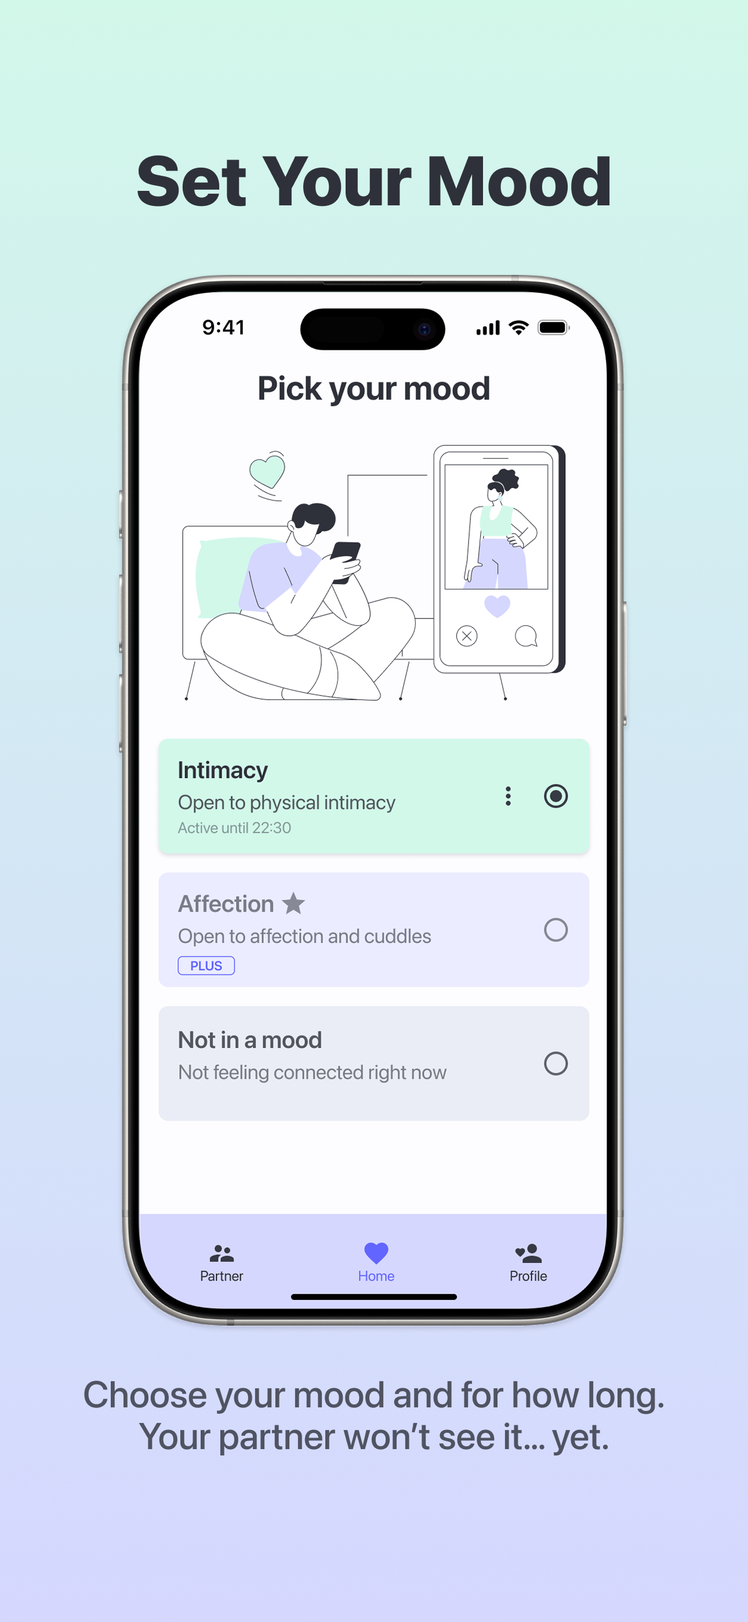
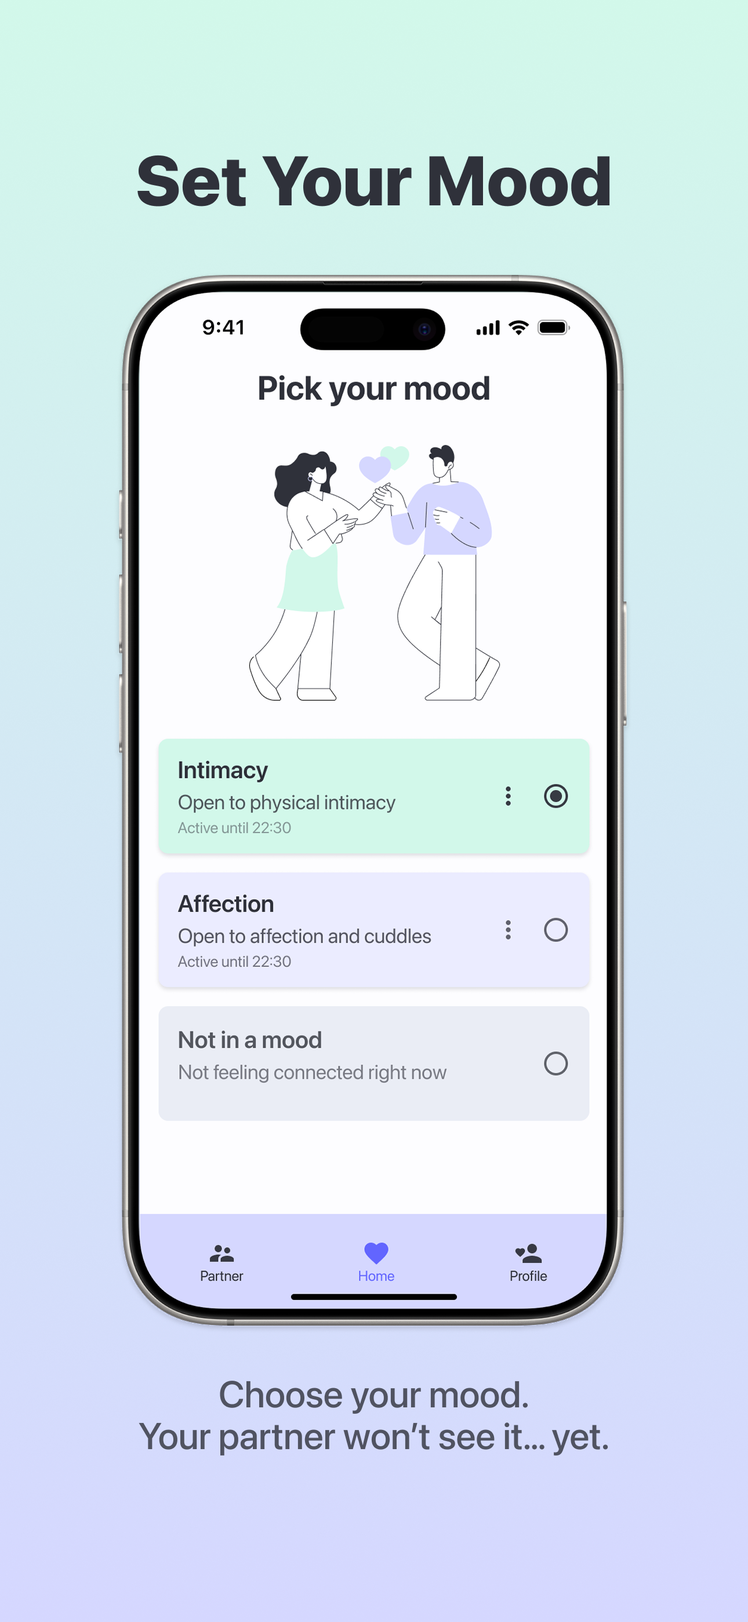
screenshots, app link

Changed region(s): [[0.2481, 0.2489, 0.7752, 0.4356], [0.093, 0.8401, 0.8992, 0.8712], [0.2481, 0.529, 0.4031, 0.6223]]

diff --git a/index.html b/index.html
@@ -1,2 +1,2 @@
 <!doctype html><html lang="en"><head><meta charset="utf-8"><meta http-equiv="X-UA-Compatible" content="IE=edge"><meta name="viewport" content="width=device-width, initial-scale=1.0, maximum-scale=1.0, user-scalable=no"/><meta name="description" content="In The Mood mobile application"><meta name="theme-color" content="#efeeff"><meta name="msapplication-navbutton-color" content="#efeeff"><meta name="apple-mobile-web-app-status-bar-style" content="#efeeff"><meta property="og:image" content="https://inthemood.kilkalabs.com/assets/images/large-logo.png"/><link rel="alternate" type="application/rss+xml" title="In The Mood" href="/feed.xml"><link href="https://fonts.googleapis.com/css?family=Heebo:900" rel="stylesheet"><title>In The Mood | In The Mood mobile application</title><meta name="generator" content="Jekyll v4.4.1"/><meta property="og:title" content="In The Mood"/><meta name="author" content="KilkaLabs"/><meta property="og:locale" content="en_US"/><meta name="description" content="In The Mood mobile application"/><meta property="og:description" content="In The Mood mobile application"/><link rel="canonical" href="https://inthemood.kilkalabs.com/"/><meta property="og:url" content="https://inthemood.kilkalabs.com/"/><meta property="og:site_name" content="In The Mood"/><meta property="og:type" content="website"/><meta name="twitter:card" content="summary"/><meta property="twitter:title" content="In The Mood"/> <script type="application/ld+json">
-{"@context":"https://schema.org","@type":"WebSite","author":{"@type":"Person","name":"KilkaLabs"},"description":"In The Mood mobile application","headline":"In The Mood","name":"In The Mood","publisher":{"@type":"Organization","logo":{"@type":"ImageObject","url":"https://inthemood.kilkalabs.com/assets/images/large-logo.png"},"name":"KilkaLabs"},"url":"https://inthemood.kilkalabs.com/"}</script><script async src="https://www.googletagmanager.com/gtag/js?id=G-GJNZ7KK26C"></script><script>function gtag(){dataLayer.push(arguments)}window.dataLayer=window.dataLayer||[],gtag("js",new Date),gtag("config","G-GJNZ7KK26C")</script><link rel="icon" type="image/x-icon" href="/assets/assets/favicon.ico"><link rel="icon" type="image/png" sizes="16x16" href="/assets/assets/favicon-16x16.png"><link rel="icon" type="image/png" sizes="32x32" href="/assets/assets/favicon-32x32.png"><link rel="icon" type="image/png" sizes="48x48" href="/assets/assets/favicon-48x48.png"><link rel="manifest" href="/assets/assets/manifest.webmanifest"><meta name="mobile-web-app-capable" content="yes"><meta name="theme-color" content="#fff"><meta name="application-name" content="mobile-app-landingpage-template"><link rel="apple-touch-icon" sizes="57x57" href="/assets/assets/apple-touch-icon-57x57.png"><link rel="apple-touch-icon" sizes="60x60" href="/assets/assets/apple-touch-icon-60x60.png"><link rel="apple-touch-icon" sizes="72x72" href="/assets/assets/apple-touch-icon-72x72.png"><link rel="apple-touch-icon" sizes="76x76" href="/assets/assets/apple-touch-icon-76x76.png"><link rel="apple-touch-icon" sizes="114x114" href="/assets/assets/apple-touch-icon-114x114.png"><link rel="apple-touch-icon" sizes="120x120" href="/assets/assets/apple-touch-icon-120x120.png"><link rel="apple-touch-icon" sizes="144x144" href="/assets/assets/apple-touch-icon-144x144.png"><link rel="apple-touch-icon" sizes="152x152" href="/assets/assets/apple-touch-icon-152x152.png"><link rel="apple-touch-icon" sizes="167x167" href="/assets/assets/apple-touch-icon-167x167.png"><link rel="apple-touch-icon" sizes="180x180" href="/assets/assets/apple-touch-icon-180x180.png"><link rel="apple-touch-icon" sizes="1024x1024" href="/assets/assets/apple-touch-icon-1024x1024.png"><meta name="apple-mobile-web-app-capable" content="yes"><meta name="apple-mobile-web-app-status-bar-style" content="black-translucent"><meta name="apple-mobile-web-app-title" content="mobile-app-landingpage-template"><link rel="apple-touch-startup-image" media="(device-width: 320px) and (device-height: 568px) and (-webkit-device-pixel-ratio: 2) and (orientation: portrait)" href="/assets/assets/apple-touch-startup-image-640x1136.png"><link rel="apple-touch-startup-image" media="(device-width: 320px) and (device-height: 568px) and (-webkit-device-pixel-ratio: 2) and (orientation: landscape)" href="/assets/assets/apple-touch-startup-image-1136x640.png"><link rel="apple-touch-startup-image" media="(device-width: 375px) and (device-height: 667px) and (-webkit-device-pixel-ratio: 2) and (orientation: portrait)" href="/assets/assets/apple-touch-startup-image-750x1334.png"><link rel="apple-touch-startup-image" media="(device-width: 375px) and (device-height: 667px) and (-webkit-device-pixel-ratio: 2) and (orientation: landscape)" href="/assets/assets/apple-touch-startup-image-1334x750.png"><link rel="apple-touch-startup-image" media="(device-width: 375px) and (device-height: 812px) and (-webkit-device-pixel-ratio: 3) and (orientation: portrait)" href="/assets/assets/apple-touch-startup-image-1125x2436.png"><link rel="apple-touch-startup-image" media="(device-width: 375px) and (device-height: 812px) and (-webkit-device-pixel-ratio: 3) and (orientation: landscape)" href="/assets/assets/apple-touch-startup-image-2436x1125.png"><link rel="apple-touch-startup-image" media="(device-width: 390px) and (device-height: 844px) and (-webkit-device-pixel-ratio: 3) and (orientation: portrait)" href="/assets/assets/apple-touch-startup-image-1170x2532.png"><link rel="apple-touch-startup-image" media="(device-width: 390px) and (device-height: 844px) and (-webkit-device-pixel-ratio: 3) and (orientation: landscape)" href="/assets/assets/apple-touch-startup-image-2532x1170.png"><link rel="apple-touch-startup-image" media="(device-width: 393px) and (device-height: 852px) and (-webkit-device-pixel-ratio: 3) and (orientation: portrait)" href="/assets/assets/apple-touch-startup-image-1179x2556.png"><link rel="apple-touch-startup-image" media="(device-width: 393px) and (device-height: 852px) and (-webkit-device-pixel-ratio: 3) and (orientation: landscape)" href="/assets/assets/apple-touch-startup-image-2556x1179.png"><link rel="apple-touch-startup-image" media="(device-width: 414px) and (device-height: 896px) and (-webkit-device-pixel-ratio: 2) and (orientation: portrait)" href="/assets/assets/apple-touch-startup-image-828x1792.png"><link rel="apple-touch-startup-image" media="(device-width: 414px) and (device-height: 896px) and (-webkit-device-pixel-ratio: 2) and (orientation: landscape)" href="/assets/assets/apple-touch-startup-image-1792x828.png"><link rel="apple-touch-startup-image" media="(device-width: 414px) and (device-height: 896px) and (-webkit-device-pixel-ratio: 3) and (orientation: portrait)" href="/assets/assets/apple-touch-startup-image-1242x2688.png"><link rel="apple-touch-startup-image" media="(device-width: 414px) and (device-height: 896px) and (-webkit-device-pixel-ratio: 3) and (orientation: landscape)" href="/assets/assets/apple-touch-startup-image-2688x1242.png"><link rel="apple-touch-startup-image" media="(device-width: 414px) and (device-height: 736px) and (-webkit-device-pixel-ratio: 3) and (orientation: portrait)" href="/assets/assets/apple-touch-startup-image-1242x2208.png"><link rel="apple-touch-startup-image" media="(device-width: 414px) and (device-height: 736px) and (-webkit-device-pixel-ratio: 3) and (orientation: landscape)" href="/assets/assets/apple-touch-startup-image-2208x1242.png"><link rel="apple-touch-startup-image" media="(device-width: 428px) and (device-height: 926px) and (-webkit-device-pixel-ratio: 3) and (orientation: portrait)" href="/assets/assets/apple-touch-startup-image-1284x2778.png"><link rel="apple-touch-startup-image" media="(device-width: 428px) and (device-height: 926px) and (-webkit-device-pixel-ratio: 3) and (orientation: landscape)" href="/assets/assets/apple-touch-startup-image-2778x1284.png"><link rel="apple-touch-startup-image" media="(device-width: 430px) and (device-height: 932px) and (-webkit-device-pixel-ratio: 3) and (orientation: portrait)" href="/assets/assets/apple-touch-startup-image-1290x2796.png"><link rel="apple-touch-startup-image" media="(device-width: 430px) and (device-height: 932px) and (-webkit-device-pixel-ratio: 3) and (orientation: landscape)" href="/assets/assets/apple-touch-startup-image-2796x1290.png"><link rel="apple-touch-startup-image" media="(device-width: 744px) and (device-height: 1133px) and (-webkit-device-pixel-ratio: 2) and (orientation: portrait)" href="/assets/assets/apple-touch-startup-image-1488x2266.png"><link rel="apple-touch-startup-image" media="(device-width: 744px) and (device-height: 1133px) and (-webkit-device-pixel-ratio: 2) and (orientation: landscape)" href="/assets/assets/apple-touch-startup-image-2266x1488.png"><link rel="apple-touch-startup-image" media="(device-width: 768px) and (device-height: 1024px) and (-webkit-device-pixel-ratio: 2) and (orientation: portrait)" href="/assets/assets/apple-touch-startup-image-1536x2048.png"><link rel="apple-touch-startup-image" media="(device-width: 768px) and (device-height: 1024px) and (-webkit-device-pixel-ratio: 2) and (orientation: landscape)" href="/assets/assets/apple-touch-startup-image-2048x1536.png"><link rel="apple-touch-startup-image" media="(device-width: 810px) and (device-height: 1080px) and (-webkit-device-pixel-ratio: 2) and (orientation: portrait)" href="/assets/assets/apple-touch-startup-image-1620x2160.png"><link rel="apple-touch-startup-image" media="(device-width: 810px) and (device-height: 1080px) and (-webkit-device-pixel-ratio: 2) and (orientation: landscape)" href="/assets/assets/apple-touch-startup-image-2160x1620.png"><link rel="apple-touch-startup-image" media="(device-width: 820px) and (device-height: 1080px) and (-webkit-device-pixel-ratio: 2) and (orientation: portrait)" href="/assets/assets/apple-touch-startup-image-1640x2160.png"><link rel="apple-touch-startup-image" media="(device-width: 820px) and (device-height: 1080px) and (-webkit-device-pixel-ratio: 2) and (orientation: landscape)" href="/assets/assets/apple-touch-startup-image-2160x1640.png"><link rel="apple-touch-startup-image" media="(device-width: 834px) and (device-height: 1194px) and (-webkit-device-pixel-ratio: 2) and (orientation: portrait)" href="/assets/assets/apple-touch-startup-image-1668x2388.png"><link rel="apple-touch-startup-image" media="(device-width: 834px) and (device-height: 1194px) and (-webkit-device-pixel-ratio: 2) and (orientation: landscape)" href="/assets/assets/apple-touch-startup-image-2388x1668.png"><link rel="apple-touch-startup-image" media="(device-width: 834px) and (device-height: 1112px) and (-webkit-device-pixel-ratio: 2) and (orientation: portrait)" href="/assets/assets/apple-touch-startup-image-1668x2224.png"><link rel="apple-touch-startup-image" media="(device-width: 834px) and (device-height: 1112px) and (-webkit-device-pixel-ratio: 2) and (orientation: landscape)" href="/assets/assets/apple-touch-startup-image-2224x1668.png"><link rel="apple-touch-startup-image" media="(device-width: 1024px) and (device-height: 1366px) and (-webkit-device-pixel-ratio: 2) and (orientation: portrait)" href="/assets/assets/apple-touch-startup-image-2048x2732.png"><link rel="apple-touch-startup-image" media="(device-width: 1024px) and (device-height: 1366px) and (-webkit-device-pixel-ratio: 2) and (orientation: landscape)" href="/assets/assets/apple-touch-startup-image-2732x2048.png"><meta name="msapplication-TileColor" content="#fff"><meta name="msapplication-TileImage" content="/assets/assets/mstile-144x144.png"><meta name="msapplication-config" content="/assets/assets/browserconfig.xml"><link rel="yandex-tableau-widget" href="/assets/assets/yandex-browser-manifest.json"><script defer src="/assets/app-6801df3f5a6c860727d2.bundle.js"></script><link href="/assets/app.css" rel="stylesheet"></head><body><main><header class="app__header container"><div class="app__logo-wrapper"> <img class="app__logo" src="/assets/images/appicon.png" alt="In The Mood for Couples Icon"></div><div class="app__infos"><h1 class="app__name">In The Mood for Couples</h1><p class="app__description">Sync Desire With Your Partner</p><div class="app__buttons app__buttons--desktop"> <a href="" class="app__button-ios" target="_blank"><img src="/assets/images/ios.svg" alt="Get on Appstore"></a></div></div> </header><div class="app__buttons app__buttons--mobile container"> <a href="" class="app__button-ios" target="_blank"><img src="/assets/images/ios.svg" alt="Get on Appstore"></a></div> <section class="app__screenshots app__section"><div class="container"><h2 class="app__section-title">Screenshots</h2></div><div class="app__screenshots-wrapper container-desktop"><div class="app__screenshots-list"> <a href="/assets/images/screenshots/1.png" class="lightbox"> <img src="/assets/images/screenshots/1.png" class="app__screenshot"> </a> <a href="/assets/images/screenshots/2.png" class="lightbox"> <img src="/assets/images/screenshots/2.png" class="app__screenshot"> </a> <a href="/assets/images/screenshots/3.png" class="lightbox"> <img src="/assets/images/screenshots/3.png" class="app__screenshot"> </a> <a href="/assets/images/screenshots/4.png" class="lightbox"> <img src="/assets/images/screenshots/4.png" class="app__screenshot"> </a> <a href="/assets/images/screenshots/5.png" class="lightbox"> <img src="/assets/images/screenshots/5.png" class="app__screenshot"> </a> <a href="/assets/images/screenshots/6.png" class="lightbox"> <img src="/assets/images/screenshots/6.png" class="app__screenshot"> </a></div></div> </section> <section class="app__fulldescription app__section container"><h2 class="app__section-title">Description</h2><div class="app__fulldescription-content"><p>REDISCOVER INTIMACY WITH YOUR PARTNER<br>In The Mood is the private communication app for couples that strengthens your connection and helps you sync desire, no matter your schedules or different interest levels.<br><br>HOW IT WORKS:<br>- Pair Up: Securely connect with your partner within the app<br>- Set Your Mood: Privately choose between 'Intimacy', 'Affection', or 'Not in the Mood'<br>- Get Notified: Receive alerts only when both partners have matching active moods<br>- Connect Confidently: Eliminate rejection anxiety with our discreet matching system<br><br>PERFECT FOR:<br>- Couples navigating different desire levels<br>- Busy partners struggling to find moments for connection<br>- Anyone wanting to improve intimate communication<br><br>AVAILABLE MOODS:<br>- Intimacy: You're feeling ready for close connection<br>- Affection: You desire closeness, cuddling, or gentle touch<br>- Not in the Mood: You're not currently receptive<br><br>IN THE MOOD+ SUBSCRIPTION:<br>- Unlock 'Affection' Mood: Expand your ways to signal connection<br>- Extended Mood Timers: Set your mood to last longer than the standard 3 hours<br><br>Stop guessing and start connecting. Download In The Mood today and bring more understanding and intimacy back into your relationship.</p></div> </section> <section class="app__featured app__section container"><h2 class="app__section-title"></h2><div class="app__featured-content"></div> </section> </main><footer class="footer"><div class="container"><div class="footer__container"><p class="footer__love">Made with ❤ in Europe 🇪🇺 by <a href="https://kilkalabs.com" target="_blank">KilkaLabs</a></p><ul class="footer__links"><li class="footer__link"><a href="/privacy" target="">Privacy</a></li><li class="footer__link"><a href="/terms" target="">Terms & Conditions</a></li></ul></div></div> </footer></body></html>
+{"@context":"https://schema.org","@type":"WebSite","author":{"@type":"Person","name":"KilkaLabs"},"description":"In The Mood mobile application","headline":"In The Mood","name":"In The Mood","publisher":{"@type":"Organization","logo":{"@type":"ImageObject","url":"https://inthemood.kilkalabs.com/assets/images/large-logo.png"},"name":"KilkaLabs"},"url":"https://inthemood.kilkalabs.com/"}</script><script async src="https://www.googletagmanager.com/gtag/js?id=G-GJNZ7KK26C"></script><script>function gtag(){dataLayer.push(arguments)}window.dataLayer=window.dataLayer||[],gtag("js",new Date),gtag("config","G-GJNZ7KK26C")</script><link rel="icon" type="image/x-icon" href="/assets/assets/favicon.ico"><link rel="icon" type="image/png" sizes="16x16" href="/assets/assets/favicon-16x16.png"><link rel="icon" type="image/png" sizes="32x32" href="/assets/assets/favicon-32x32.png"><link rel="icon" type="image/png" sizes="48x48" href="/assets/assets/favicon-48x48.png"><link rel="manifest" href="/assets/assets/manifest.webmanifest"><meta name="mobile-web-app-capable" content="yes"><meta name="theme-color" content="#fff"><meta name="application-name" content="mobile-app-landingpage-template"><link rel="apple-touch-icon" sizes="57x57" href="/assets/assets/apple-touch-icon-57x57.png"><link rel="apple-touch-icon" sizes="60x60" href="/assets/assets/apple-touch-icon-60x60.png"><link rel="apple-touch-icon" sizes="72x72" href="/assets/assets/apple-touch-icon-72x72.png"><link rel="apple-touch-icon" sizes="76x76" href="/assets/assets/apple-touch-icon-76x76.png"><link rel="apple-touch-icon" sizes="114x114" href="/assets/assets/apple-touch-icon-114x114.png"><link rel="apple-touch-icon" sizes="120x120" href="/assets/assets/apple-touch-icon-120x120.png"><link rel="apple-touch-icon" sizes="144x144" href="/assets/assets/apple-touch-icon-144x144.png"><link rel="apple-touch-icon" sizes="152x152" href="/assets/assets/apple-touch-icon-152x152.png"><link rel="apple-touch-icon" sizes="167x167" href="/assets/assets/apple-touch-icon-167x167.png"><link rel="apple-touch-icon" sizes="180x180" href="/assets/assets/apple-touch-icon-180x180.png"><link rel="apple-touch-icon" sizes="1024x1024" href="/assets/assets/apple-touch-icon-1024x1024.png"><meta name="apple-mobile-web-app-capable" content="yes"><meta name="apple-mobile-web-app-status-bar-style" content="black-translucent"><meta name="apple-mobile-web-app-title" content="mobile-app-landingpage-template"><link rel="apple-touch-startup-image" media="(device-width: 320px) and (device-height: 568px) and (-webkit-device-pixel-ratio: 2) and (orientation: portrait)" href="/assets/assets/apple-touch-startup-image-640x1136.png"><link rel="apple-touch-startup-image" media="(device-width: 320px) and (device-height: 568px) and (-webkit-device-pixel-ratio: 2) and (orientation: landscape)" href="/assets/assets/apple-touch-startup-image-1136x640.png"><link rel="apple-touch-startup-image" media="(device-width: 375px) and (device-height: 667px) and (-webkit-device-pixel-ratio: 2) and (orientation: portrait)" href="/assets/assets/apple-touch-startup-image-750x1334.png"><link rel="apple-touch-startup-image" media="(device-width: 375px) and (device-height: 667px) and (-webkit-device-pixel-ratio: 2) and (orientation: landscape)" href="/assets/assets/apple-touch-startup-image-1334x750.png"><link rel="apple-touch-startup-image" media="(device-width: 375px) and (device-height: 812px) and (-webkit-device-pixel-ratio: 3) and (orientation: portrait)" href="/assets/assets/apple-touch-startup-image-1125x2436.png"><link rel="apple-touch-startup-image" media="(device-width: 375px) and (device-height: 812px) and (-webkit-device-pixel-ratio: 3) and (orientation: landscape)" href="/assets/assets/apple-touch-startup-image-2436x1125.png"><link rel="apple-touch-startup-image" media="(device-width: 390px) and (device-height: 844px) and (-webkit-device-pixel-ratio: 3) and (orientation: portrait)" href="/assets/assets/apple-touch-startup-image-1170x2532.png"><link rel="apple-touch-startup-image" media="(device-width: 390px) and (device-height: 844px) and (-webkit-device-pixel-ratio: 3) and (orientation: landscape)" href="/assets/assets/apple-touch-startup-image-2532x1170.png"><link rel="apple-touch-startup-image" media="(device-width: 393px) and (device-height: 852px) and (-webkit-device-pixel-ratio: 3) and (orientation: portrait)" href="/assets/assets/apple-touch-startup-image-1179x2556.png"><link rel="apple-touch-startup-image" media="(device-width: 393px) and (device-height: 852px) and (-webkit-device-pixel-ratio: 3) and (orientation: landscape)" href="/assets/assets/apple-touch-startup-image-2556x1179.png"><link rel="apple-touch-startup-image" media="(device-width: 414px) and (device-height: 896px) and (-webkit-device-pixel-ratio: 2) and (orientation: portrait)" href="/assets/assets/apple-touch-startup-image-828x1792.png"><link rel="apple-touch-startup-image" media="(device-width: 414px) and (device-height: 896px) and (-webkit-device-pixel-ratio: 2) and (orientation: landscape)" href="/assets/assets/apple-touch-startup-image-1792x828.png"><link rel="apple-touch-startup-image" media="(device-width: 414px) and (device-height: 896px) and (-webkit-device-pixel-ratio: 3) and (orientation: portrait)" href="/assets/assets/apple-touch-startup-image-1242x2688.png"><link rel="apple-touch-startup-image" media="(device-width: 414px) and (device-height: 896px) and (-webkit-device-pixel-ratio: 3) and (orientation: landscape)" href="/assets/assets/apple-touch-startup-image-2688x1242.png"><link rel="apple-touch-startup-image" media="(device-width: 414px) and (device-height: 736px) and (-webkit-device-pixel-ratio: 3) and (orientation: portrait)" href="/assets/assets/apple-touch-startup-image-1242x2208.png"><link rel="apple-touch-startup-image" media="(device-width: 414px) and (device-height: 736px) and (-webkit-device-pixel-ratio: 3) and (orientation: landscape)" href="/assets/assets/apple-touch-startup-image-2208x1242.png"><link rel="apple-touch-startup-image" media="(device-width: 428px) and (device-height: 926px) and (-webkit-device-pixel-ratio: 3) and (orientation: portrait)" href="/assets/assets/apple-touch-startup-image-1284x2778.png"><link rel="apple-touch-startup-image" media="(device-width: 428px) and (device-height: 926px) and (-webkit-device-pixel-ratio: 3) and (orientation: landscape)" href="/assets/assets/apple-touch-startup-image-2778x1284.png"><link rel="apple-touch-startup-image" media="(device-width: 430px) and (device-height: 932px) and (-webkit-device-pixel-ratio: 3) and (orientation: portrait)" href="/assets/assets/apple-touch-startup-image-1290x2796.png"><link rel="apple-touch-startup-image" media="(device-width: 430px) and (device-height: 932px) and (-webkit-device-pixel-ratio: 3) and (orientation: landscape)" href="/assets/assets/apple-touch-startup-image-2796x1290.png"><link rel="apple-touch-startup-image" media="(device-width: 744px) and (device-height: 1133px) and (-webkit-device-pixel-ratio: 2) and (orientation: portrait)" href="/assets/assets/apple-touch-startup-image-1488x2266.png"><link rel="apple-touch-startup-image" media="(device-width: 744px) and (device-height: 1133px) and (-webkit-device-pixel-ratio: 2) and (orientation: landscape)" href="/assets/assets/apple-touch-startup-image-2266x1488.png"><link rel="apple-touch-startup-image" media="(device-width: 768px) and (device-height: 1024px) and (-webkit-device-pixel-ratio: 2) and (orientation: portrait)" href="/assets/assets/apple-touch-startup-image-1536x2048.png"><link rel="apple-touch-startup-image" media="(device-width: 768px) and (device-height: 1024px) and (-webkit-device-pixel-ratio: 2) and (orientation: landscape)" href="/assets/assets/apple-touch-startup-image-2048x1536.png"><link rel="apple-touch-startup-image" media="(device-width: 810px) and (device-height: 1080px) and (-webkit-device-pixel-ratio: 2) and (orientation: portrait)" href="/assets/assets/apple-touch-startup-image-1620x2160.png"><link rel="apple-touch-startup-image" media="(device-width: 810px) and (device-height: 1080px) and (-webkit-device-pixel-ratio: 2) and (orientation: landscape)" href="/assets/assets/apple-touch-startup-image-2160x1620.png"><link rel="apple-touch-startup-image" media="(device-width: 820px) and (device-height: 1080px) and (-webkit-device-pixel-ratio: 2) and (orientation: portrait)" href="/assets/assets/apple-touch-startup-image-1640x2160.png"><link rel="apple-touch-startup-image" media="(device-width: 820px) and (device-height: 1080px) and (-webkit-device-pixel-ratio: 2) and (orientation: landscape)" href="/assets/assets/apple-touch-startup-image-2160x1640.png"><link rel="apple-touch-startup-image" media="(device-width: 834px) and (device-height: 1194px) and (-webkit-device-pixel-ratio: 2) and (orientation: portrait)" href="/assets/assets/apple-touch-startup-image-1668x2388.png"><link rel="apple-touch-startup-image" media="(device-width: 834px) and (device-height: 1194px) and (-webkit-device-pixel-ratio: 2) and (orientation: landscape)" href="/assets/assets/apple-touch-startup-image-2388x1668.png"><link rel="apple-touch-startup-image" media="(device-width: 834px) and (device-height: 1112px) and (-webkit-device-pixel-ratio: 2) and (orientation: portrait)" href="/assets/assets/apple-touch-startup-image-1668x2224.png"><link rel="apple-touch-startup-image" media="(device-width: 834px) and (device-height: 1112px) and (-webkit-device-pixel-ratio: 2) and (orientation: landscape)" href="/assets/assets/apple-touch-startup-image-2224x1668.png"><link rel="apple-touch-startup-image" media="(device-width: 1024px) and (device-height: 1366px) and (-webkit-device-pixel-ratio: 2) and (orientation: portrait)" href="/assets/assets/apple-touch-startup-image-2048x2732.png"><link rel="apple-touch-startup-image" media="(device-width: 1024px) and (device-height: 1366px) and (-webkit-device-pixel-ratio: 2) and (orientation: landscape)" href="/assets/assets/apple-touch-startup-image-2732x2048.png"><meta name="msapplication-TileColor" content="#fff"><meta name="msapplication-TileImage" content="/assets/assets/mstile-144x144.png"><meta name="msapplication-config" content="/assets/assets/browserconfig.xml"><link rel="yandex-tableau-widget" href="/assets/assets/yandex-browser-manifest.json"><script defer src="/assets/app-6801df3f5a6c860727d2.bundle.js"></script><link href="/assets/app.css" rel="stylesheet"></head><body><main><header class="app__header container"><div class="app__logo-wrapper"> <img class="app__logo" src="/assets/images/appicon.png" alt="In The Mood for Couples Icon"></div><div class="app__infos"><h1 class="app__name">In The Mood for Couples</h1><p class="app__description">Sync Desire With Your Partner</p><div class="app__buttons app__buttons--desktop"> <a href="https://apps.apple.com/app/id6744419061" class="app__button-ios" target="_blank"><img src="/assets/images/ios.svg" alt="Get on Appstore"></a></div></div> </header><div class="app__buttons app__buttons--mobile container"> <a href="https://apps.apple.com/app/id6744419061" class="app__button-ios" target="_blank"><img src="/assets/images/ios.svg" alt="Get on Appstore"></a></div> <section class="app__screenshots app__section"><div class="container"><h2 class="app__section-title">Screenshots</h2></div><div class="app__screenshots-wrapper container-desktop"><div class="app__screenshots-list"> <a href="/assets/images/screenshots/1.png" class="lightbox"> <img src="/assets/images/screenshots/1.png" class="app__screenshot"> </a> <a href="/assets/images/screenshots/2.png" class="lightbox"> <img src="/assets/images/screenshots/2.png" class="app__screenshot"> </a> <a href="/assets/images/screenshots/3.png" class="lightbox"> <img src="/assets/images/screenshots/3.png" class="app__screenshot"> </a> <a href="/assets/images/screenshots/4.png" class="lightbox"> <img src="/assets/images/screenshots/4.png" class="app__screenshot"> </a> <a href="/assets/images/screenshots/5.png" class="lightbox"> <img src="/assets/images/screenshots/5.png" class="app__screenshot"> </a> <a href="/assets/images/screenshots/6.png" class="lightbox"> <img src="/assets/images/screenshots/6.png" class="app__screenshot"> </a></div></div> </section> <section class="app__fulldescription app__section container"><h2 class="app__section-title">Description</h2><div class="app__fulldescription-content"><p><b>SYNC YOUR LOVE. STRENGTHEN YOUR BOND.</b><br><b>In The Mood</b> is the private app for couples who want to improve their relationship through better timing, clearer signals, and deeper understanding. Whether you're navigating different moods or just too busy to connect, <b>In The Mood</b> helps you stay emotionally close — without pressure or awkward conversations.<br><br> <b>HOW IT WORKS:</b><br> * Pair with Your Partner – A private, secure connection for just the two of you<br> * Set Your Mood – Choose how you're feeling: Intimacy, Affection, or Not in the Mood<br> * Only Match When You Sync – Get a gentle notification when both of you feel the same<br> * No Guesswork, No Rejection – Say more with less, and build trust every day<br><br> <b>GREAT FOR:</b><br> * Couples with different schedules or energy levels<br> * Partners who want to stay close even when life gets hectic<br> * Anyone looking for a better way to express how they feel<br><br> <b>MOOD OPTIONS:</b><br> * Intimacy – You’re open to close connection<br> * Affection – You’re looking for warmth, cuddles, or comfort<br> * Not in the Mood – You’re taking time for yourself (and that’s okay)<br><br> <b>GO FURTHER WITH IN THE MOOD+:</b><br> * Unlock 'Affection' mood for more nuanced connection<br> * Extend how long your mood lasts — up to 6 hours long<br> * Track your syncs over time and celebrate the moments that bring you closer<br><br>Sync love, not calendars. Download <b>In The Mood</b> today and rediscover how easy it can be to feel close again.</p></div> </section> <section class="app__featured app__section container"><h2 class="app__section-title"></h2><div class="app__featured-content"></div> </section> </main><footer class="footer"><div class="container"><div class="footer__container"><p class="footer__love">Made with ❤ in Europe 🇪🇺 by <a href="https://kilkalabs.com" target="_blank">KilkaLabs</a></p><ul class="footer__links"><li class="footer__link"><a href="/privacy" target="">Privacy</a></li><li class="footer__link"><a href="/terms" target="">Terms & Conditions</a></li></ul></div></div> </footer></body></html>
